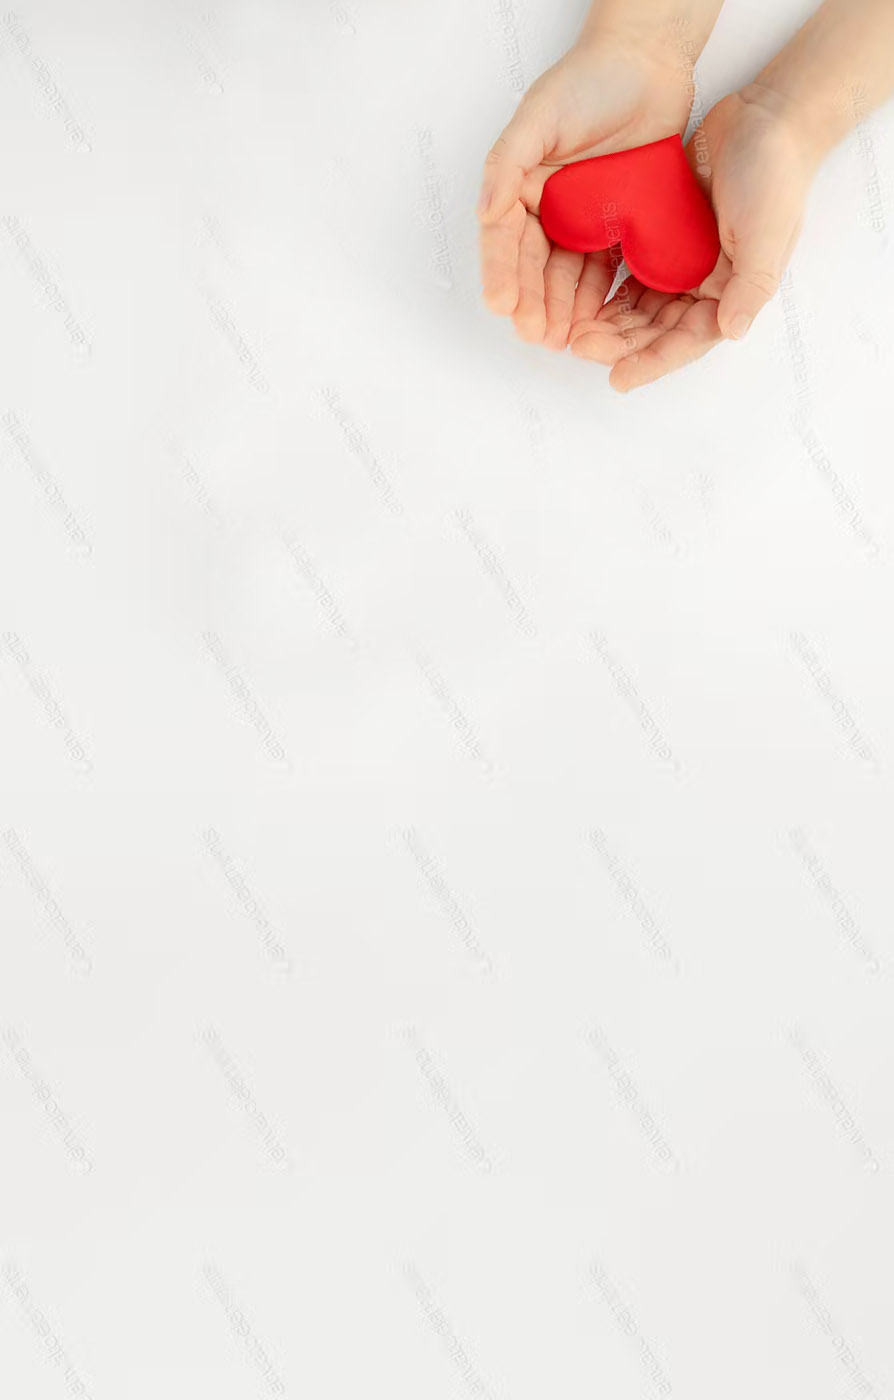
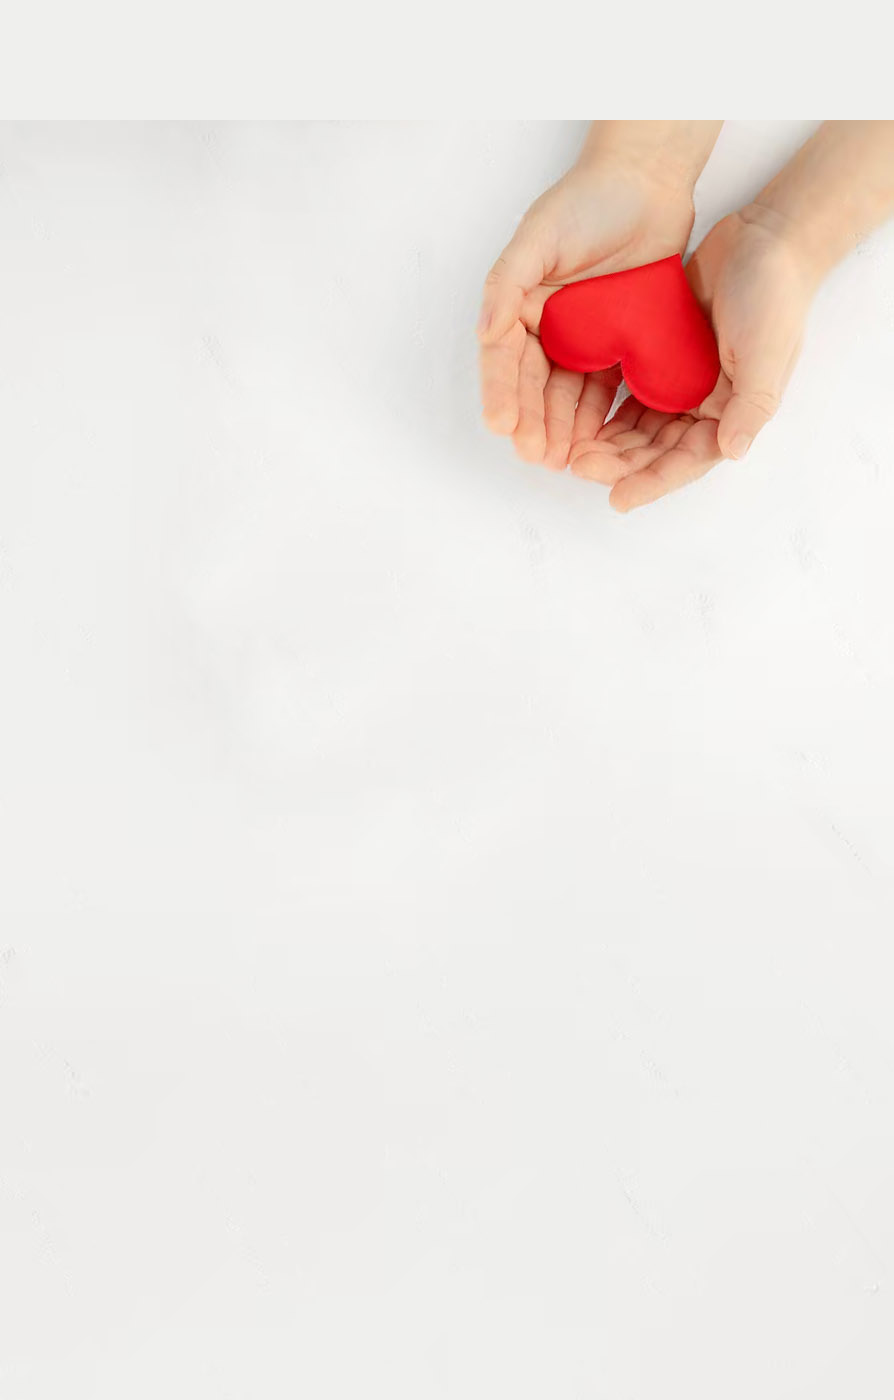
ajustes responsive

Changed region(s): [[0.4832, 0.0, 1.0, 0.3686]]

diff --git a/css/style.css b/css/style.css
@@ -9031,56 +9031,95 @@ p {
       margin-left: 10px; } }
 
 .programas__main {
-  background-image: url(../img/corazon_en_manos.jpg);
+  background-image: url(../img/corazon_en_manos_vertical_2.jpg);
   background-repeat: no-repeat;
   background-position-x: end;
-  background-position-y: center;
-  background-size: cover;
-  width: 100vw; }
+  background-position-y: top;
+  background-size: cover; }
+  @media (min-width: 576px) {
+    .programas__main {
+      background-image: url(../img/corazon_en_manos_intermedia.jpg);
+      background-position-y: top; } }
+  @media (min-width: 992px) {
+    .programas__main {
+      background-image: url(../img/corazon_en_manos.jpg);
+      background-position-y: center; } }
   .programas__main__wrapper {
     width: 85vw;
-    margin-left: 45pt;
+    margin-left: 25pt;
     padding-top: 130px;
     padding-bottom: 40px; }
+    @media (min-width: 768px) {
+      .programas__main__wrapper {
+        margin-left: 45pt;
+        padding-top: 200px; } }
+    @media (min-width: 992px) {
+      .programas__main__wrapper {
+        margin-left: 45pt;
+        padding-top: 140px; } }
     .programas__main__wrapper__title {
       color: #025ddc;
       font-family: "Trocchi";
       font-weight: normal;
       font-size: 2.5rem;
       line-height: 2.5rem;
-      padding-bottom: 30px; }
+      padding-bottom: 30px;
+      padding-top: 120px; }
+      @media (min-width: 768px) {
+        .programas__main__wrapper__title {
+          padding-top: 200px;
+          max-width: 400px; } }
+      @media (min-width: 992px) {
+        .programas__main__wrapper__title {
+          padding-top: 0px; } }
     .programas__main__wrapper__text--parragraph {
       font-family: "Lato Regular";
       font-weight: normal;
       font-size: 1rem;
       line-height: 1.5rem;
       letter-spacing: 0.2px;
-      color: #54595f;
-      max-width: 600px; }
+      color: #4e555e;
+      max-width: 480px; }
+      @media (min-width: 992px) {
+        .programas__main__wrapper__text--parragraph {
+          max-width: 570px; } }
+      @media (min-width: 1200px) {
+        .programas__main__wrapper__text--parragraph {
+          font-size: 1.1rem;
+          line-height: 1.7rem;
+          max-width: 650px; } }
 
 .programas__section {
-  background-color: #e0ebff; }
+  background-color: #efefed; }
   .programas__section__wrapper {
-    width: 90vw;
+    width: 95vw;
     padding-top: 90px;
     padding-bottom: 90px; }
     .programas__section__wrapper__card {
       background-color: white;
       padding: 50px 30px;
       width: auto;
-      min-width: 300px;
-      height: auto; }
+      width: 250px;
+      min-width: 170px;
+      height: 310px; }
+      .programas__section__wrapper__card-body i {
+        color: #025ddc; }
       .programas__section__wrapper__card-title {
-        color: #13438D; }
+        color: #104691; }
       .programas__section__wrapper__card-subtitle {
-        color: #54595f; }
+        color: #4e555e; }
       .programas__section__wrapper__card-text {
         font-family: "Lato Regular";
         font-weight: normal;
         font-size: 1rem;
         line-height: 1.5rem;
         letter-spacing: 0.2px;
-        color: #54595f; }
+        color: #4e555e; }
+
+.card-link {
+  display: inline-block;
+  align-items: baseline;
+  color: #025ddc; }
 
 /* Estilo PAGINA SUMATE */
 .contacto__main {

diff --git a/scss/pages/_programas.scss b/scss/pages/_programas.scss
@@ -1,22 +1,43 @@
 .programas__main {
-  background-image: url(../img/corazon_en_manos.jpg);
+  background-image: url(../img/corazon_en_manos_vertical_2.jpg);
   background-repeat: no-repeat;
   background-position-x: end;
-  background-position-y: center;
+  background-position-y: top;
   background-size: cover;
-  width: 100vw;
+    @media (min-width: $sm-viewport) {
+    background-image: url(../img/corazon_en_manos_intermedia.jpg);
+    background-position-y: top;
+  }
+  @media (min-width: $lg-viewport) {
+    background-image: url(../img/corazon_en_manos.jpg);
+    background-position-y: center;
+  }
   &__wrapper {
     width: 85vw;
-    margin-left: 45pt;
+    margin-left: 25pt;
     padding-top: 130px;
     padding-bottom: 40px;
+    @media (min-width: $md-viewport) {
+      margin-left: 45pt;
+      padding-top: 200px;}
+    @media (min-width: $lg-viewport) {
+      margin-left: 45pt;
+      padding-top: 140px;}
     &__title {
-      color: #025ddc;
+      color: $secondary;
       font-family: "Trocchi";
       font-weight: normal;
       font-size: 2.5rem;
       line-height: 2.5rem;
       padding-bottom: 30px;
+      padding-top: 120px;
+      @media (min-width: $md-viewport) {
+        padding-top: 200px;
+        max-width: 400px;
+      }
+      @media (min-width: $lg-viewport) {
+        padding-top: 0px;
+      }
     }
     &__text {
       &--parragraph {
@@ -25,29 +46,41 @@
         font-size: 1rem;
         line-height: 1.5rem;
         letter-spacing: 0.2px;
-        color: #54595f;
-        max-width: 600px;
+        color: $gray-700;
+        max-width: 480px;
+        @media (min-width: $lg-viewport) {
+          max-width: 570px;
+        }
+        @media (min-width: $xl-viewport) {
+          font-size: 1.1rem;
+          line-height: 1.7rem;
+          max-width: 650px;
+        }
       }
     }
   }
 }
 .programas__section {
-  background-color: #e0ebff;
+  background-color: $beige;
   &__wrapper {
-    width: 90vw;
+    width: 95vw;
     padding-top: 90px;
     padding-bottom: 90px;
     &__card {
       background-color: white;
       padding: 50px 30px;
       width: auto;
-      min-width: 300px;
-      height: auto;
+      width: 250px;
+      min-width: 170px;
+      height: 310px;
+      &-body i {
+        color: $secondary;
+      }
       &-title {
-        color:#13438D;
+        color: $blue;
       }
       &-subtitle {
-        color: #54595f;
+        color: $gray-700;
       }
       &-text {
         font-family: "Lato Regular";
@@ -55,8 +88,13 @@
         font-size: 1rem;
         line-height: 1.5rem;
         letter-spacing: 0.2px;
-        color: #54595f;
+        color: $gray-700;
       }
     }
   }
+}
+.card-link {
+  display: inline-block;
+  align-items: baseline;
+  color: $secondary;
 }

diff --git a/pages/programas.html b/pages/programas.html
@@ -129,8 +129,8 @@
     <!-- Inicio programas -->
     <section class="programas__section">
       <div class="container text-center programas__section__wrapper">
-        <div class="row align-items-start gap-3">
-          <div class="col programas__section__wrapper__card">
+        <div class="row align-items-start gap-4">
+          <div class="col rounded-3 programas__section__wrapper__card">
             <div class="programas__section__card">
               <div class="programas__section__card-body">
                 <h6 class="programas__section__card-subtitle text-black-50">
@@ -153,7 +153,7 @@
               </div>
             </div>
           </div>
-          <div class="col programas__section__wrapper__card">
+          <div class="col rounded-3 programas__section__wrapper__card">
             <div class="programas__section__card">
               <div class="programas__section__card-body">
                 <h6
@@ -178,7 +178,7 @@
               </div>
             </div>
           </div>
-          <div class="col programas__section__wrapper__card">
+          <div class="col rounded-3 programas__section__wrapper__card">
             <div class="programas__section__card">
               <div class="programas__section__card-body">
                 <h6

diff --git a/scss/complements/_variables.scss b/scss/complements/_variables.scss
@@ -1,6 +1,7 @@
 $sm-viewport: 576px;
 $md-viewport: 768px;
 $lg-viewport: 992px;
+$xl-viewport: 1200px;
 $font-family-sans-serif: "Lato Regular", sans-serif;
 $primary: #092c5f;
 $blue: #104691;
@@ -12,3 +13,4 @@ $light-blue: #5683c3;
 $blue-dark: #033364;
 $green: #cefca3;
 $light-green: #e0ffc3;
+$beige:#efefed;
